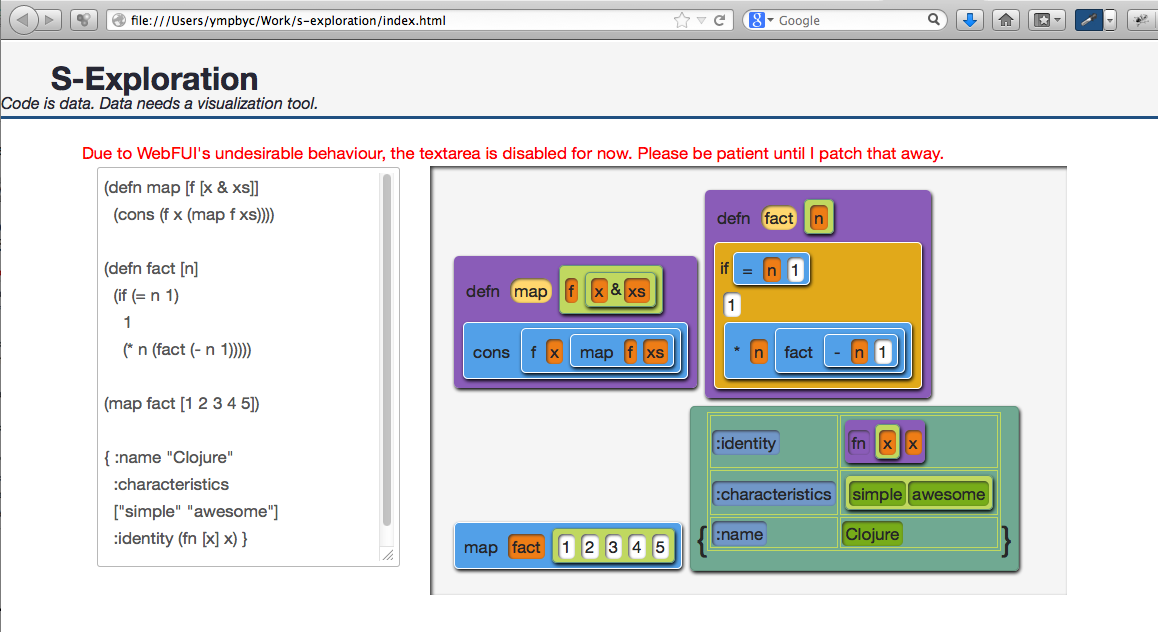
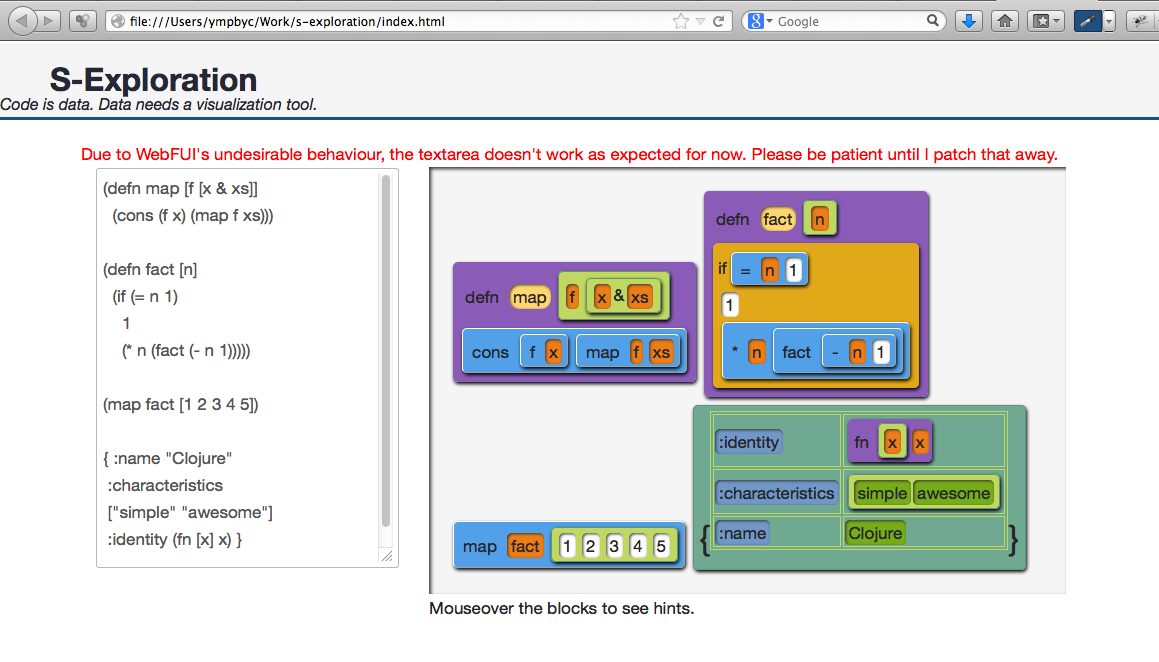
the sample code had a bug

Changed region(s): [[0.0, 0.0, 1.0, 0.932], [0.0622, 0.6013, 0.2487, 0.8718], [0.0622, 0.3908, 0.2176, 0.5712]]

diff --git a/resources/public/js/main.js b/resources/public/js/main.js
@@ -24476,11 +24476,11 @@ s_exploration.core.c_log = function c_log(x) {
   console.log(cljs.core.clj__GT_js.call(null, x));
   return x
 };
-s_exploration.core.render_all = function render_all(p__29270) {
-  var map__29272 = p__29270;
-  var map__29272__$1 = cljs.core.seq_QMARK_.call(null, map__29272) ? cljs.core.apply.call(null, cljs.core.hash_map, map__29272) : map__29272;
-  var code = cljs.core.get.call(null, map__29272__$1, "\ufdd0:code");
-  var sexps = cljs.core.get.call(null, map__29272__$1, "\ufdd0:sexps");
+s_exploration.core.render_all = function render_all(p__32280) {
+  var map__32282 = p__32280;
+  var map__32282__$1 = cljs.core.seq_QMARK_.call(null, map__32282) ? cljs.core.apply.call(null, cljs.core.hash_map, map__32282) : map__32282;
+  var code = cljs.core.get.call(null, map__32282__$1, "\ufdd0:code");
+  var sexps = cljs.core.get.call(null, map__32282__$1, "\ufdd0:sexps");
   return cljs.core.PersistentVector.fromArray(["\ufdd0:div", cljs.core.PersistentVector.fromArray(["\ufdd0:header", cljs.core.PersistentVector.fromArray(["\ufdd0:h1", "S-Exploration"], true), cljs.core.PersistentVector.fromArray(["\ufdd0:i", "Code is data. Data needs a visualization tool."], true)], true), cljs.core.PersistentVector.fromArray(["\ufdd0:div#content", cljs.core.PersistentVector.fromArray(["\ufdd0:span", cljs.core.PersistentArrayMap.fromArray(["\ufdd0:style", cljs.core.PersistentArrayMap.fromArray(["\ufdd0:color", 
   "red"], true)], true), "Due to WebFUI's undesirable behaviour, the textarea doesn't work as expected for now. Please be patient until I patch that away."], true), cljs.core.PersistentVector.fromArray(["\ufdd0:div.grid-third", cljs.core.PersistentVector.fromArray(["\ufdd0:textarea#code", cljs.core.PersistentArrayMap.fromArray(["\ufdd0:watch", "\ufdd0:code-watch"], true), [cljs.core.str(code)].join("")], true)], true), cljs.core.PersistentVector.fromArray(["\ufdd0:div.grid-two-thirds", cljs.core.PersistentVector.fromArray(["\ufdd0:div.visual-sexp", 
   cljs.core.map.call(null, s_exploration.renderers.render_sexp, sexps)], true), cljs.core.PersistentVector.fromArray(["\ufdd0:span", "Mouseover the blocks to see hints."], true)], true)], true)], true)
@@ -24489,18 +24489,19 @@ webfui.framework.add_dom_watch_helper.call(null, "\ufdd0:code-watch", function(s
   var code = (new cljs.core.Keyword("\ufdd0:value")).call(null, cljs.core.second.call(null, new_el));
   try {
     return cljs.core.PersistentArrayMap.fromArray(["\ufdd0:sexps", cljs.reader.read_string.call(null, [cljs.core.str("["), cljs.core.str(code), cljs.core.str("]")].join("")), "\ufdd0:code", code], true)
-  }catch(e29273) {
-    if(e29273 instanceof Object) {
-      var e = e29273;
+  }catch(e32283) {
+    if(e32283 instanceof Object) {
+      var e = e32283;
+      s_exploration.core.c_log.call(null, e);
       return cljs.core.PersistentArrayMap.fromArray(["\ufdd0:code", code], true)
     }else {
       if("\ufdd0:else") {
-        throw e29273;
+        throw e32283;
       }else {
         return null
       }
     }
   }
 });
-s_exploration.core.sample_code = '\n(defn map [f [x & xs]]\n  (cons (f x (map f xs))))\n\n(defn fact [n]\n  (if (= n 1)\n    1\n    (* n (fact (- n 1)))))\n\n(map fact [1 2 3 4 5])\n\n{ :name "Clojure"\n :characteristics\n ["simple" "awesome"]\n :identity (fn [x] x) }\n';
+s_exploration.core.sample_code = '\n(defn map [f [x & xs]]\n  (cons (f x) (map f xs)))\n\n(defn fact [n]\n  (if (= n 1)\n    1\n    (* n (fact (- n 1)))))\n\n(map fact [1 2 3 4 5])\n\n{ :name "Clojure"\n :characteristics\n ["simple" "awesome"]\n :identity (fn [x] x) }\n';
 webfui.framework.launch_app.call(null, cljs.core.atom.call(null, cljs.core.PersistentArrayMap.fromArray(["\ufdd0:sexps", cljs.reader.read_string.call(null, [cljs.core.str("["), cljs.core.str(s_exploration.core.sample_code), cljs.core.str("]")].join("")), "\ufdd0:code", s_exploration.core.sample_code], true)), s_exploration.core.render_all);
